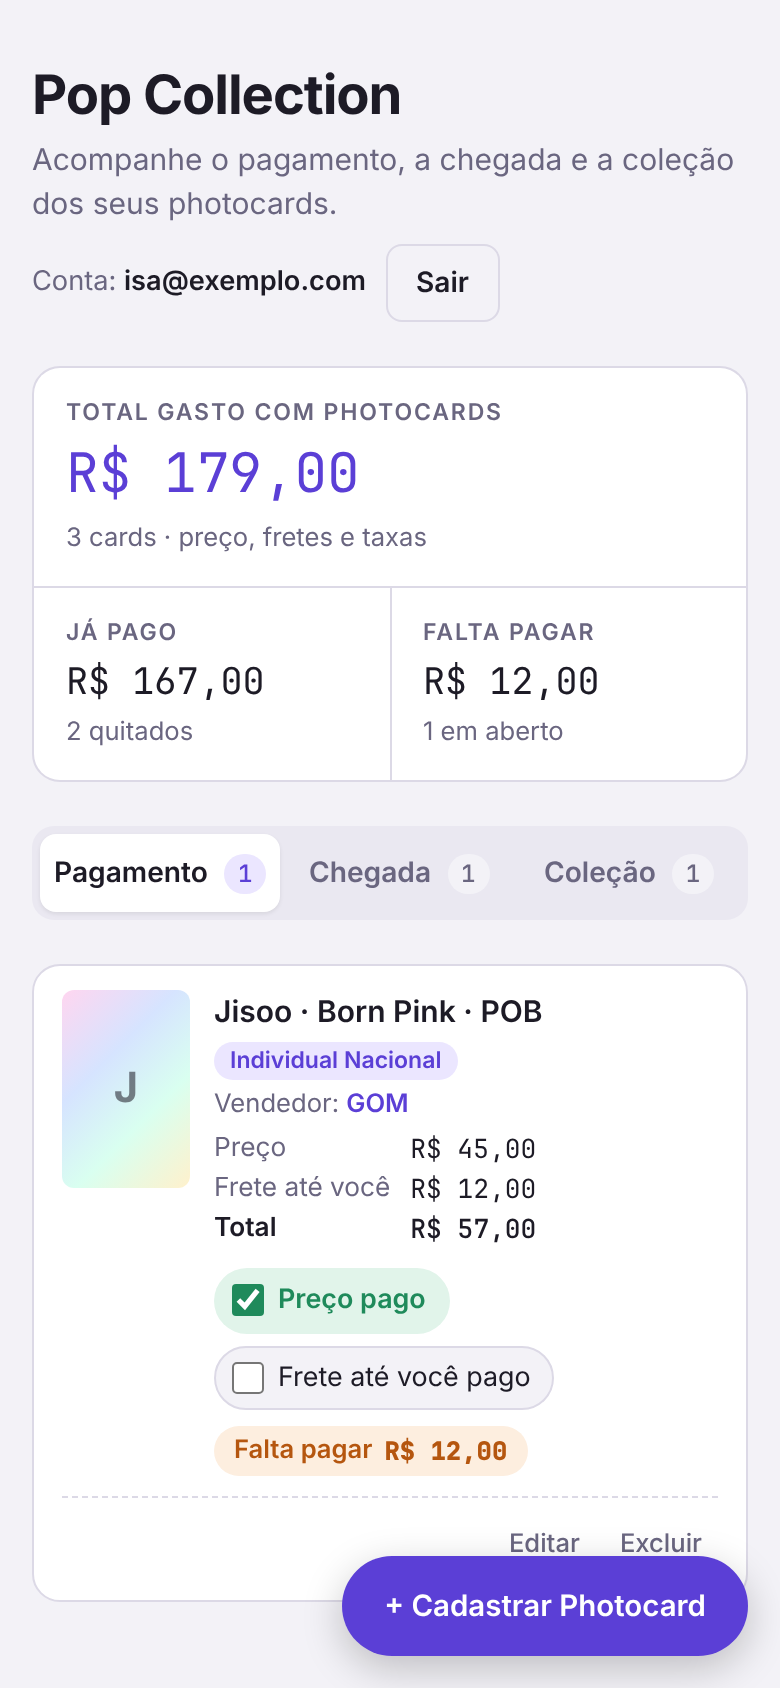
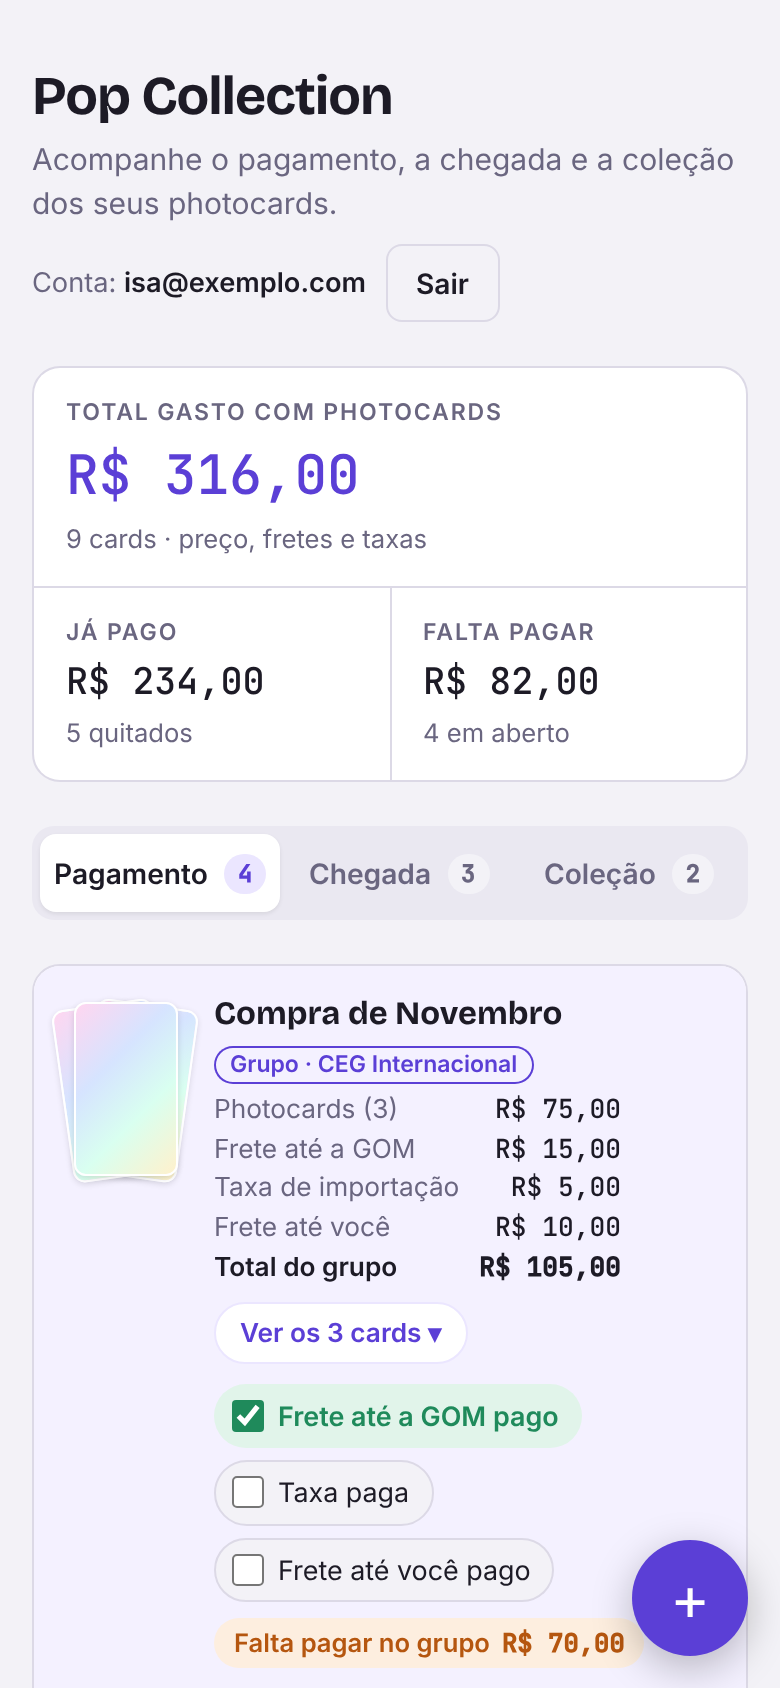
Adiciona a opção Presente, o menu do celular e novas telas no README
- Presente: card sem custo nenhum, que vai direto para a Chegada
  (coluna cards.gift no schema).
- Celular: o botão + abre Cadastrar photocard e Grupos.
- README: funções novas e capturas de tela atualizadas.

diff --git a/app.js b/app.js
@@ -82,7 +82,8 @@
     return p;
   }
   const allPaid = (c) => parts(c).every((x) => c[x.paid]) && (!grp(c) || feesPaid(grp(c)));
-  const stage = (c) => (c.arrived ? "col" : allPaid(c) ? "arr" : "pay");
+  // presente: sem custo nenhum, vai direto para Chegada
+  const stage = (c) => (c.arrived ? "col" : c.gift || allPaid(c) ? "arr" : "pay");
   const total = (c) => sumParts(c, parts(c));
   const due = (c) => dueParts(c, parts(c));
   const sumPrices = (list) => cents(list.reduce((s, c) => s + (Number(c.price) || 0), 0));
@@ -286,7 +287,7 @@
       el("div", { class: "fields" },
         el("label", { class: "f name" }, "Nome do photocard", e.name),
         el("label", { class: "f seller" }, "Onde comprou (vendedor)", e.seller),
-        el("label", { class: "f" }, "Preço (R$)", e.price),
+        (e.priceWrap = el("label", { class: "f" }, "Preço (R$)", e.price)),
         ...e.fees.nodes));
     return e;
   }
@@ -337,18 +338,21 @@
   function formKind() {
     const mode = $("fGroup").value;
     const g = mode && mode !== "new" ? groupsById.get(mode) : null;
-    return { mode, g, t: g ? g.purchase_type : radio("fType") || "individual", o: g ? g.origin : radio("fOrigin") || "nacional" };
+    return { mode, g, gift: $("fGift").checked, t: g ? g.purchase_type : radio("fType") || "individual", o: g ? g.origin : radio("fOrigin") || "nacional" };
   }
   function updateKindFields() {
-    const { mode, g, t, o } = formKind();
-    $("fKind").hidden = !!g;
-    $("fHint").textContent = HINT[t + "-" + o];
+    const { mode, g, gift, t, o } = formKind();
+    $("fTypeWrap").hidden = $("fOriginWrap").hidden = !!g || gift;
+    $("fHint").textContent = gift ? "Presente: o card não tem custo nenhum e vai direto para a aba Chegada." : g ? "" : HINT[t + "-" + o];
+    $("fGroupRow").hidden = gift;
     $("fGroupNameWrap").hidden = mode !== "new";
     $("fGroupName").required = mode === "new";
     $("fGroupFees").hidden = mode !== "new";
     fGroupFees.show(t, o);
     entries.forEach((e, i) => {
-      e.fees.show(t, o, !mode);
+      e.fees.show(t, o, !mode && !gift);
+      e.priceWrap.hidden = gift;
+      e.price.required = !gift;
       e.num.textContent = "Photocard " + (i + 1);
       e.head.hidden = entries.length === 1;
     });
@@ -364,18 +368,20 @@
     updateFormTotal();
   }
   function updateFormTotal() {
-    const { mode, t, o } = formKind();
-    let sum = entries.reduce((s, e) => s + cents(e.price.value) + (mode ? 0 : e.fees.sum(t, o)), 0);
+    const { mode, gift, t, o } = formKind();
+    let sum = gift ? 0 : entries.reduce((s, e) => s + cents(e.price.value) + (mode ? 0 : e.fees.sum(t, o)), 0);
     if (mode === "new") sum += fGroupFees.sum(t, o);
     $("fTotal").textContent = money(sum);
     $("fTotalLabel").textContent = mode === "new" ? "Total do grupo" : mode ? (entries.length > 1 ? "Preço dos cards" : "Preço do card") : "Total";
   }
   document.querySelectorAll("input[name=fType], input[name=fOrigin]").forEach((r) => r.addEventListener("change", updateKindFields));
+  $("fGift").addEventListener("change", () => { if ($("fGift").checked) $("fGroup").value = ""; updateKindFields(); });
 
   function formLabels() {
     const n = entries.length;
     $("fSubmit").textContent = editing ? "Salvar alterações" : n > 1 ? `Cadastrar ${n} photocards` : "Cadastrar photocard";
-    $("formMsg").textContent = editing ? "Editando: " + editing.name : n > 1 ? "Os cards entram na aba Pagamento." : "O card entra na aba Pagamento.";
+    const aba = $("fGift").checked ? "Chegada" : "Pagamento";
+    $("formMsg").textContent = editing ? "Editando: " + editing.name : n > 1 ? `Os cards entram na aba ${aba}.` : `O card entra na aba ${aba}.`;
     $("addTitle").textContent = editing ? "Editar photocard" : n > 1 ? "Cadastrar photocards" : "Cadastrar photocard";
     $("addForm").classList.toggle("editing", !!editing);
   }
@@ -412,6 +418,7 @@
     setRadio("fType", c.purchase_type || "individual");
     setRadio("fOrigin", c.origin || "nacional");
     $("fGroup").value = grp(c) ? c.group_id : "";
+    $("fGift").checked = !!c.gift;
     const src = c.image_path && photoUrls.get(c.image_path);
     if (src) showPhoto(e, src);
     openForm();
@@ -428,7 +435,7 @@
 
   $("addForm").addEventListener("submit", async (ev) => {
     ev.preventDefault();
-    const { mode, t, o } = formKind();
+    const { mode, gift, t, o } = formKind();
     const groupName = $("fGroupName").value.trim();
     if (mode === "new" && !groupName) { $("fGroupName").focus(); return; }
     const blank = entries.find((e) => !e.name.value.trim());
@@ -457,8 +464,14 @@
       }));
       // num grupo, os fretes próprios do card não são tocados (ficam guardados)
       const values = (e) => {
-        const v = { name: e.name.value.trim(), seller: e.seller.value.trim() || null, price: cents(e.price.value), group_id: g ? g.id : null };
+        const base = { name: e.name.value.trim(), seller: e.seller.value.trim() || null };
+        // presente: zera os valores e marca tudo como pago
+        if (gift) return { ...base, gift: true, group_id: null, purchase_type: t, origin: o, price: 0, shipping: 0, shipping_to_gom: 0, import_tax: 0,
+          paid_price: true, paid_shipping: true, paid_shipping_to_gom: true, paid_tax: true };
+        const v = { ...base, gift: false, price: cents(e.price.value), group_id: g ? g.id : null };
         if (!g) Object.assign(v, { purchase_type: t, origin: o, ...e.fees.values(t, o) });
+        // deixou de ser presente: os valores voltam a ser pagos normalmente
+        if (target && target.gift) Object.assign(v, { paid_price: false, paid_shipping: false, paid_shipping_to_gom: false, paid_tax: false });
         return v;
       };
       const keepPreview = (e) => { if (e.path && e.previewUrl) { photoUrls.set(e.path, e.previewUrl); e.previewUrl = null; } };
@@ -483,7 +496,7 @@
       }
       const rows = entries.map((e) => {
         const v = { ...values(e), image_path: e.path };
-        if (g) { v.purchase_type = g.purchase_type; v.origin = g.origin; }
+        if (g && !gift) { v.purchase_type = g.purchase_type; v.origin = g.origin; }
         return v;
       });
       const { data, error } = await sb.from("cards").insert(rows).select();
@@ -494,8 +507,8 @@
       const n = data.length;
       saving = false; resetForm(); closeForm();
       const what = n > 1 ? `${n} photocards cadastrados` : "Photocard cadastrado";
-      toast((photoFails ? `${what}, mas ${plural(photoFails, "foto não foi enviada", "fotos não foram enviadas")}.` : `${what} em Pagamento.`) + (g ? ` Grupo: ${g.name}.` : ""));
-      tab = "pay"; render();
+      toast((photoFails ? `${what}, mas ${plural(photoFails, "foto não foi enviada", "fotos não foram enviadas")}.` : `${what} em ${gift ? "Chegada" : "Pagamento"}.`) + (g && !gift ? ` Grupo: ${g.name}.` : ""));
+      tab = gift ? "arr" : "pay"; render();
       signPhotos().then(render);
     } catch (err) {
       if (uploaded.length) sb.storage.from(BUCKET).remove(uploaded);
@@ -557,7 +570,7 @@
       const st = stage(c);
       const when = c.arrived_at ? new Date(c.arrived_at).toLocaleDateString("pt-BR") : "";
       const pill = st === "col" ? el("span", { class: "pill accent", text: when ? "Chegou em " + when : "Na coleção" })
-        : st === "arr" ? el("span", { class: "pill ok", text: "Chegada · pago" })
+        : st === "arr" ? el("span", { class: "pill ok", text: c.gift ? "Chegada · presente" : "Chegada · pago" })
         : el("span", { class: "pill warn", text: c.paid_price ? "Pagamento · faltam os fretes" : "Pagamento · falta o preço" });
       return el("div", { class: "gitem" }, thumb(c),
         el("div", { class: "info" },
@@ -604,7 +617,7 @@
   const STAGE_NAME = { pay: "Pagamento", arr: "Chegada", col: "Coleção" };
   function renderPicker() {
     const q = $("gSearch").value.trim().toLowerCase();
-    const list = cards.filter((c) => !q || c.name.toLowerCase().includes(q))
+    const list = cards.filter((c) => !c.gift && (!q || c.name.toLowerCase().includes(q)))
       .sort((a, b) => gMembers.has(b.id) - gMembers.has(a.id)); // os do grupo primeiro
     const box = $("gPicker");
     if (!list.length) {
@@ -716,6 +729,18 @@
     render();
   }
   $("openGroups").addEventListener("click", openGroups);
+
+  // ---------- botão flutuante do celular ----------
+  function setFab(open) {
+    $("fabMenu").hidden = !open; $("fabShade").hidden = !open;
+    $("fabMain").setAttribute("aria-expanded", String(open));
+    $("fabMain").setAttribute("aria-label", open ? "Fechar opções" : "Abrir opções: cadastrar photocard ou grupos");
+  }
+  $("fabMain").addEventListener("click", () => setFab($("fabMenu").hidden));
+  $("fabShade").addEventListener("click", () => setFab(false));
+  document.addEventListener("keydown", (e) => { if (e.key === "Escape" && !$("fabMenu").hidden) setFab(false); });
+  $("fabAdd").addEventListener("click", () => { setFab(false); if (editing) resetForm(); openForm(); });
+  $("fabGroups").addEventListener("click", () => { setFab(false); openGroups(); });
   $("gNew").addEventListener("click", () => openGroupForm(null, true));
   $("gBack").addEventListener("click", () => { if (!gSaving) showGroupList(); });
   $("gCancel").addEventListener("click", () => { if (gSaving) return; gFromList ? showGroupList() : closeGroups(); });
@@ -830,6 +855,7 @@
     return box;
   }
   function moneyBlock(c) {
+    if (c.gift) return null; // presente: a etiqueta "Presente" já diz que não tem custo
     const lines = parts(c).flatMap((x) => [el("span", { text: x.label }), el("span", { class: "num", text: money(c[x.key]) })]);
     if (grp(c)) return el("div", { class: "money" }, ...lines, el("span", { class: "note", text: "Fretes e taxa no grupo" }));
     return el("div", { class: "money" }, ...lines,
@@ -862,7 +888,7 @@
     const g = grp(c);
     return el("div", { class: "info" },
       el("span", { class: "title", text: c.name }),
-      inGroup ? null : el("span", { class: "tag" + (g ? " tag-group" : ""), text: g ? "Grupo: " + g.name : kindLabel(c) }),
+      inGroup ? null : el("span", { class: "tag" + (g ? " tag-group" : ""), text: c.gift ? "Presente" : g ? "Grupo: " + g.name : kindLabel(c) }),
       c.seller ? el("span", { class: "from" }, document.createTextNode("Vendedor: "), el("b", { text: c.seller })) : null,
       moneyBlock(c));
   }
@@ -891,10 +917,10 @@
     // num grupo, "voltar" desmarca só o preço do card (os fretes do grupo valem para todos)
     const undo = grp(c) ? { paid_price: false } : { paid_price: false, paid_shipping: false, paid_shipping_to_gom: false, paid_tax: false };
     const status = el("div", { class: "status" },
-      el("span", { class: "pill ok", text: "Pago integralmente" }),
+      el("span", { class: "pill ok", text: c.gift ? "Presente · sem custo" : "Pago integralmente" }),
       el("div", { class: "checks" },
         el("button", { class: "btn-ok", type: "button", text: "Chegou ✓", onclick: () => patch(c, { arrived: true, arrived_at: new Date().toISOString() }, "Foi para a Coleção!") }),
-        el("button", { class: "icon-btn", type: "button", text: "Voltar p/ pagamento", onclick: () => patch(c, undo) })));
+        c.gift ? null : el("button", { class: "icon-btn", type: "button", text: "Voltar p/ pagamento", onclick: () => patch(c, undo) })));
     return el("div", { class: rowClass(inGroup) }, thumb(c), infoBlock(c, inGroup), status, deleteControls(c));
   }
   function rowCol(c, inGroup) {

diff --git a/index.html b/index.html
@@ -6,7 +6,7 @@
 <title>Pop Collection</title>
 <link rel="preconnect" href="https://fonts.googleapis.com">
 <link rel="stylesheet" href="https://fonts.googleapis.com/css2?family=Bricolage+Grotesque:opsz,wght@12..96,500;12..96,700&family=Inter:wght@400;500;600&family=JetBrains+Mono:wght@500&display=swap">
-<link rel="stylesheet" href="style.css?v=7">
+<link rel="stylesheet" href="style.css?v=9">
 <style>html,body{margin:0}[hidden]{display:none!important}img{max-width:100%}</style>
 </head>
 <body>
@@ -81,6 +81,16 @@
 
   <section class="panel" id="panel"></section>
 
+  <!-- celular: um botão que abre as opções de cadastro e de grupos -->
+  <div class="fab-shade" id="fabShade" hidden></div>
+  <div class="fab" id="fab">
+    <div class="fab-menu" id="fabMenu" hidden>
+      <button class="btn-ghost fab-item" type="button" id="fabGroups" aria-haspopup="dialog">Grupos</button>
+      <button class="btn-primary fab-item" type="button" id="fabAdd" aria-haspopup="dialog">Cadastrar photocard</button>
+    </div>
+    <button class="btn-primary fab-main" type="button" id="fabMain" aria-expanded="false" aria-controls="fabMenu" aria-label="Abrir opções: cadastrar photocard ou grupos"><span aria-hidden="true">+</span></button>
+  </div>
+
   <!-- Cadastro / edição de photocards (abre pelo botão "+ Cadastrar Photocard" ou por Editar) -->
   <dialog class="sheet" id="addDialog" aria-labelledby="addTitle">
     <div class="sheet-box">
@@ -90,21 +100,26 @@
       </div>
       <form class="add" id="addForm" autocomplete="off">
         <div class="kind" id="fKind">
-          <div class="f"><span id="lType">Tipo de compra</span>
+          <div class="f" id="fTypeWrap"><span id="lType">Tipo de compra</span>
             <div class="seg" role="radiogroup" aria-labelledby="lType">
               <label><input type="radio" name="fType" value="individual" checked><span>Individual</span></label>
               <label><input type="radio" name="fType" value="ceg"><span title="Compra em grupo">CEG</span></label>
             </div>
           </div>
-          <div class="f"><span id="lOrigin">Origem</span>
+          <div class="f" id="fOriginWrap"><span id="lOrigin">Origem</span>
             <div class="seg" role="radiogroup" aria-labelledby="lOrigin">
               <label><input type="radio" name="fOrigin" value="nacional" checked><span>Nacional</span></label>
               <label><input type="radio" name="fOrigin" value="internacional"><span>Internacional</span></label>
             </div>
           </div>
+          <div class="f"><span id="lGift">Sem custo</span>
+            <div class="seg" aria-labelledby="lGift">
+              <label><input type="checkbox" id="fGift"><span>Presente</span></label>
+            </div>
+          </div>
           <p class="hint" id="fHint"></p>
         </div>
-        <div class="grouprow">
+        <div class="grouprow" id="fGroupRow">
           <label class="f">Grupo
             <select id="fGroup">
               <option value="">Sem grupo</option>
@@ -210,7 +225,7 @@
 <div class="toast" id="toast" hidden></div>
 
 <script src="https://cdn.jsdelivr.net/npm/@supabase/supabase-js@2.45.4/dist/umd/supabase.js"></script>
-<script src="config.js?v=7"></script>
-<script src="app.js?v=7"></script>
+<script src="config.js?v=9"></script>
+<script src="app.js?v=9"></script>
 </body>
 </html>

diff --git a/style.css b/style.css
@@ -121,14 +121,25 @@ button { font: inherit; cursor: pointer; border-radius: 8px; border: 1px solid t
 .btn-add { white-space: nowrap; padding: 10px 18px; font-size: 0.92rem; box-shadow: 0 2px 8px rgba(91,63,214,.25); }
 .btn-add:hover { filter: brightness(1.06); }
 .btn-groups { white-space: nowrap; padding: 10px 16px; font-size: 0.92rem; background: var(--surface); }
+/* botão flutuante do celular: abre "Cadastrar" e "Grupos" acima dele */
+.fab { display: none; }
 @media (max-width: 600px) {
-  /* no celular o botão fica fixo embaixo, ao alcance do polegar */
-  .btn-add { position: fixed; z-index: 10; right: max(16px, env(safe-area-inset-right, 0px)); bottom: calc(16px + env(safe-area-inset-bottom, 0px)); border-radius: 99px; padding: 13px 20px; box-shadow: 0 6px 20px rgba(0,0,0,.22); }
+  .bar .btn-add, .bar .btn-groups { display: none; }
   #appView { padding-bottom: 96px; }
-  .bar { flex-wrap: wrap; }
-  .btn-groups { order: -1; margin-left: auto; padding: 7px 14px; font-size: 0.85rem; }
-  .bar .tabs { flex-basis: 100%; }
-  .toast { bottom: calc(84px + env(safe-area-inset-bottom, 0px)); }
+  .toast { bottom: calc(88px + env(safe-area-inset-bottom, 0px)); }
+  .fab { display: flex; flex-direction: column; align-items: flex-end; gap: 10px; position: fixed; z-index: 10; right: max(16px, env(safe-area-inset-right, 0px)); bottom: calc(16px + env(safe-area-inset-bottom, 0px)); }
+  .fab-main { width: 58px; height: 58px; border-radius: 50%; padding: 0; font-size: 1.9rem; font-weight: 400; line-height: 1; box-shadow: 0 6px 20px rgba(0,0,0,.25); display: grid; place-items: center; }
+  .fab-main span { display: block; transition: transform .2s ease; }
+  .fab-main[aria-expanded=true] span { transform: rotate(45deg); }
+  .fab-menu { display: flex; flex-direction: column; align-items: flex-end; gap: 10px; }
+  .fab-item { border-radius: 99px; padding: 12px 18px; font-size: 0.92rem; white-space: nowrap; box-shadow: 0 4px 14px rgba(0,0,0,.18); }
+  .fab-item.btn-ghost { background: var(--surface); }
+  .fab-shade { position: fixed; inset: 0; z-index: 9; background: rgba(20,19,26,.35); }
+  @media (prefers-reduced-motion: no-preference) {
+    .fab-menu:not([hidden]) .fab-item { animation: fab-in .18s ease both; }
+    .fab-menu .fab-item:first-child { animation-delay: .04s; }
+    @keyframes fab-in { from { opacity: 0; transform: translateY(8px); } }
+  }
 }
 
 /* janela do cadastro */

diff --git a/README.md b/README.md
@@ -30,29 +30,48 @@ Criei o Pop Collection para resolver um problema meu: acompanhar quanto já pagu
 - **Contas individuais:** cada pessoa só vê os próprios cards.
 - **Cadastro com foto:** pelo botão "+ Cadastrar Photocard", que abre uma janela com nome, vendedor, categoria, preço e fretes. A foto e o vendedor são opcionais. Dá para cadastrar vários cards de uma vez com "+ Adicionar outro photocard".
 - **Categorias de compra:** Individual ou CEG, Nacional ou Internacional. O formulário mostra só os fretes e a taxa de importação (opcional) de cada categoria. Na CEG, você informa só a sua parte do que é dividido.
-- **Grupos de compra:** junte cards da mesma compra num grupo com nome. Os fretes e a taxa de importação ficam no grupo e contam uma vez só, não importa quantos cards ele tenha. Pelo botão "Grupos" dá para ver os cards de cada grupo (em "Ver"), criar grupos com cards já cadastrados, adicionar ou tirar cards, renomear e excluir o grupo (os cards continuam cadastrados).
+- **Presente:** marque "Presente" no cadastro para um card que você ganhou. Ele não tem custo nenhum e vai direto para a aba Chegada.
+- **Grupos de compra:** junte cards da mesma compra num grupo com nome. Os fretes e a taxa de importação ficam no grupo e contam uma vez só, não importa quantos cards ele tenha. Nas abas, o grupo aparece como um bloco com os valores; clique nele para ver os cards.
+- **Janela Grupos:** pelo botão "Grupos", "Ver" mostra os valores do grupo e a situação de cada card, e "Editar" cria grupos com cards já cadastrados, adiciona ou tira cards, renomeia e exclui o grupo (os cards continuam cadastrados).
 - **Edição e exclusão:** corrija nome, vendedor, categoria, valores ou foto depois do cadastro, ou exclua um card.
 - **Controle financeiro:** mostra o total gasto, o que já foi pago e o que falta pagar.
 - **Três abas:** Pagamento, Chegada e Coleção, cada uma com a contagem de cards.
-- **Chegada:** separa os cards quitados que ainda estão a caminho.
+- **Chegada:** separa os cards quitados (e os presentes) que ainda estão a caminho.
+- **Feito para o celular:** no celular, o botão + no canto da tela abre "Cadastrar photocard" e "Grupos".
 - **Recuperar a senha** pelo link "Esqueci minha senha".
 - **Tema claro e escuro**, conforme o dispositivo.
 
 ## Como funciona
 
-O app abre nas abas **Pagamento**, **Chegada** e **Coleção**. O cadastro fica no botão **+ Cadastrar Photocard**, ao lado das abas.
+O app abre nas abas **Pagamento**, **Chegada** e **Coleção**. O cadastro fica no botão **+ Cadastrar Photocard** e os grupos no botão **Grupos**, ao lado das abas. No celular, os dois ficam no botão **+** no canto da tela.
 
 ```mermaid
 flowchart LR
     A[+ Cadastrar Photocard] --> B[Pagamento]
+    A -->|presente| C
     B -->|tudo pago| C[Chegada]
     C -->|Chegou ✓| D[Coleção]
 ```
 
-1. **Cadastrar:** clique em "+ Cadastrar Photocard", escolha a categoria e preencha os dados do card. O total (preço, fretes e taxa) é calculado sozinho, e o card entra na aba Pagamento.
+1. **Cadastrar:** clique em "+ Cadastrar Photocard", escolha a categoria e preencha os dados do card. O total (preço, fretes e taxa) é calculado sozinho, e o card entra na aba Pagamento. Para vários cards da mesma compra, use "+ Adicionar outro photocard" e dê um nome ao grupo. Se marcar "Presente", o card vai direto para a Chegada.
 2. **Pagamento:** marque cada valor pago (preço, fretes e taxa). O app mostra quanto ainda falta. Num grupo, cada card tem o seu "Preço pago" e os fretes e a taxa são marcados uma vez só, no bloco do grupo. Clique no grupo para ver os cards dele.
 3. **Chegada:** com tudo pago, o card vem para cá. Quando receber, clique em "Chegou ✓" (ou em "Todos chegaram ✓" no grupo). Se marcou algo errado, "Voltar p/ pagamento" desfaz.
 4. **Coleção:** guarda os cards recebidos, um por um ou organizados por grupo ("Ainda não chegou" devolve o card para a Chegada). "Apagar coleção" remove esses cards e suas fotos, mas mantém o valor no total gasto.
+
+## Telas
+
+<table>
+  <tr>
+    <td width="50%"><img src="docs/tela-cadastro.png" alt="Cadastro de vários photocards de uma vez, num grupo novo"><br><sub><b>Cadastro:</b> vários cards de uma vez, num grupo com nome, ou como presente.</sub></td>
+    <td width="50%"><img src="docs/tela-grupo.png" alt="Janela Grupos mostrando os cards de um grupo"><br><sub><b>Grupos → Ver:</b> valores do grupo e a situação de cada card.</sub></td>
+  </tr>
+  <tr>
+    <td width="50%"><img src="docs/tela-chegada.png" alt="Aba Chegada com um presente e um grupo aberto"><br><sub><b>Chegada:</b> presente sem custo e grupo com "Todos chegaram".</sub></td>
+    <td width="50%" align="center"><img src="docs/tela-celular-menu.png" alt="Celular com o botão + aberto, mostrando Grupos e Cadastrar photocard" width="55%"><br><sub><b>Celular:</b> o botão + abre "Cadastrar photocard" e "Grupos".</sub></td>
+  </tr>
+</table>
+
+<sub>Telas com dados de teste.</sub>
 
 ## Tecnologias
 
